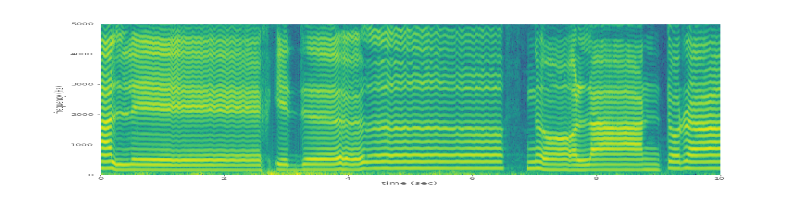
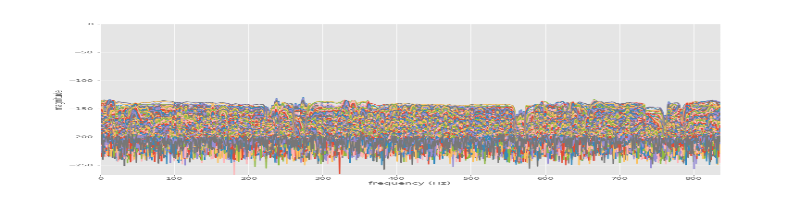
Mengubah ke plot grafik

diff --git a/audio_testing.py b/audio_testing.py
@@ -200,21 +200,21 @@ class Main:
             plt.ylabel('amplitude')
             plt.xlabel('time (sec)')
             plt.autoscale(tight=True)
+            plt.subplots_adjust(top = 1, bottom = 0, right = 1, left = 0, 
+                                hspace = 0, wspace = 0)
             plt.savefig("Time Domain Testing Clean.png")
             self.resizeImg("Time Domain Testing Clean.png")
             self.TimeDomImg = Image.open("Time Domain Testing Clean.png")
             self.TimeDomImg = ImageTk.PhotoImage(self.TimeDomImg)
             self.timeDomPlt.config(image=self.TimeDomImg, width=800, height=200)
             self.timeDomPlt.image = self.TimeDomImg
-            maxplotfreq = rates/8.82                    #8.82 = maxplotfreq rate
             N = 2048                                    #STFT rate
-            numFrames = int(mX[:,0].size)
-            frmTime = H*np.arange(numFrames)/float(rates)
-            binFreq = rates*np.arange(N*maxplotfreq/rates)/N
-            plt.pcolormesh(frmTime, binFreq, np.transpose(mX[:,:int(N*maxplotfreq/rates+1)]))
-            plt.xlabel('time (sec)')
-            plt.ylabel('frequency (Hz)')
+            plt.plot(mX[peak_loc])
+            plt.xlabel('frequency (Hz)')
+            plt.ylabel('magnitude')
             plt.autoscale(tight=True)
+            plt.subplots_adjust(top = 1, bottom = 0, right = 1, left = 0, 
+                                hspace = 0, wspace = 0)
             plt.savefig("Frekuensi Domain Testing Clean.png")
             self.resizeImg("Frekuensi Domain Testing Clean.png")
             self.FreqDomImg = Image.open("Frekuensi Domain Testing Clean.png")

diff --git a/audio_testing + noise.py b/audio_testing + noise.py
@@ -216,14 +216,10 @@ class Main:
             self.TimeDomImg = ImageTk.PhotoImage(self.TimeDomImg)
             self.timeDomPlt.config(image=self.TimeDomImg, width=800, height=200)
             self.timeDomPlt.image = self.TimeDomImg
-            maxplotfreq = rates/8.82                    #8.82 = maxplotfreq rate
             N = 2048                                    #STFT rate
-            numFrames = int(mX[:,0].size)
-            frmTime = H*np.arange(numFrames)/float(rates)
-            binFreq = rates*np.arange(N*maxplotfreq/rates)/N
-            plt.pcolormesh(frmTime, binFreq, np.transpose(mX[:,:int(N*maxplotfreq/rates+1)]))
-            plt.xlabel('time (sec)')
-            plt.ylabel('frequency (Hz)')
+            plt.plot(mX[peak_loc])
+            plt.xlabel('frequency (Hz)')
+            plt.ylabel('magnitude')
             plt.autoscale(tight=True)
             plt.savefig("Frekuensi Domain Testing Noise.png")
             self.resizeImg("Frekuensi Domain Testing Noise.png")
